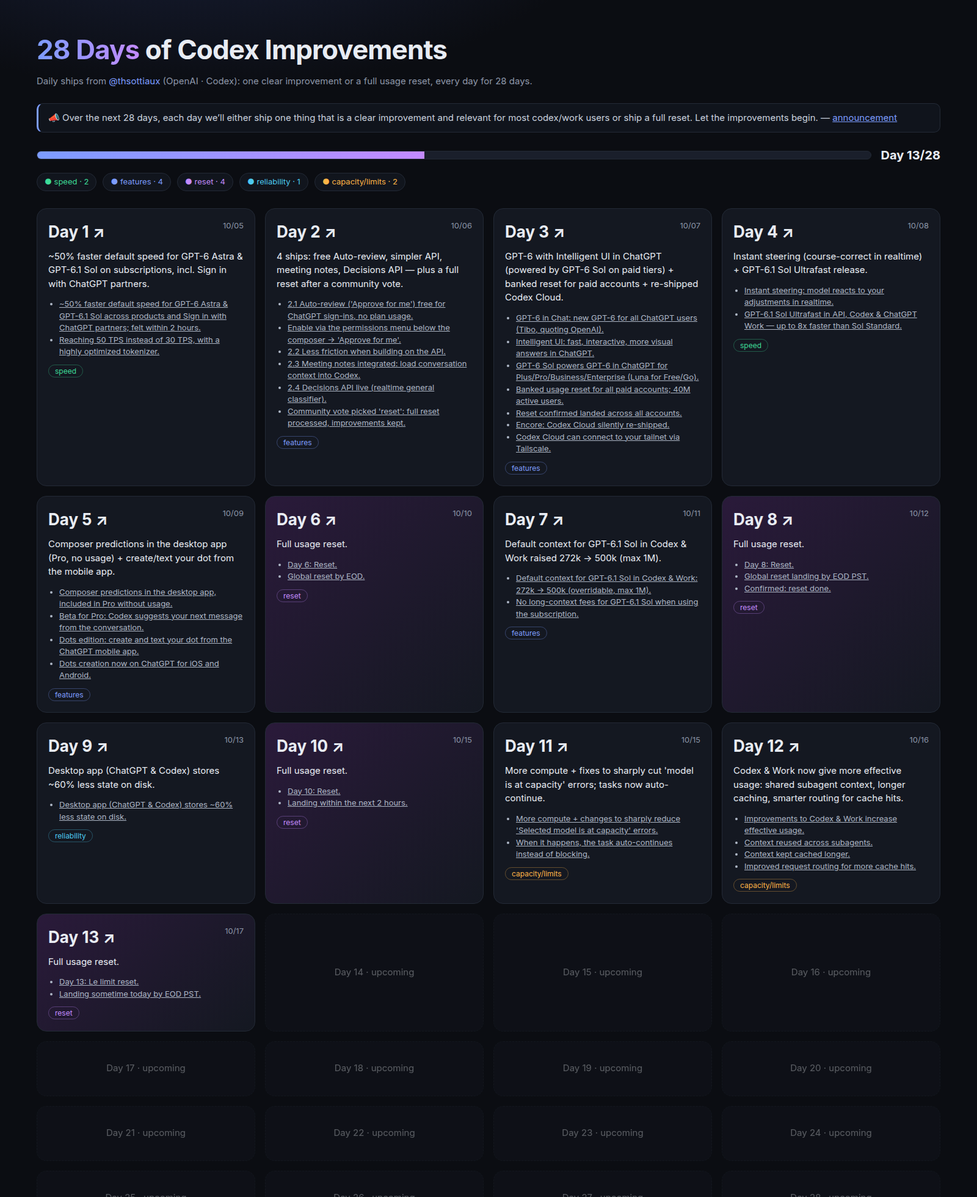
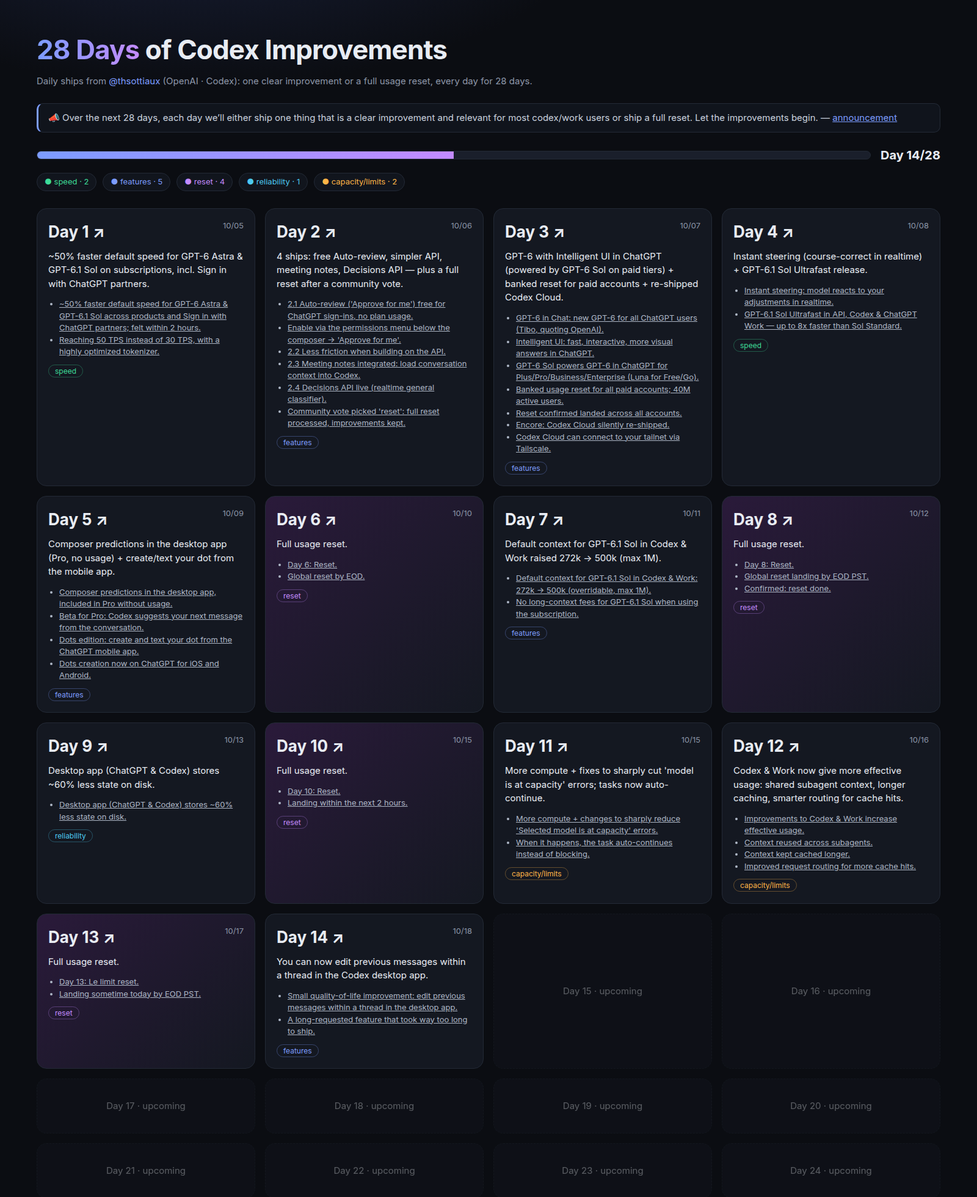
Add Day 14
Record the desktop-app message edit ship and regenerate the tracker page.

diff --git a/index.html b/index.html
@@ -25,7 +25,7 @@ footer{margin-top:28px;color:var(--mut);font-size:13px;display:flex;justify-cont
 <div class="legend" id="legend"></div><div class="grid" id="grid"></div>
 <footer><span>Compiled by <b>@TokenGremlin</b> · Not affiliated with OpenAI · Each card links to the original post</span><span id="upd"></span></footer>
 </div>
-<script id="embedded" type="application/json">{"title": "28 Days of Codex Improvements", "author": "@thsottiaux", "compiled_by": "@TokenGremlin", "timezone": "BRT (UTC-3)", "updated": "2026-10-17 20:15", "total": 28, "announcement": {"date": "2026-10-04 17:33", "url": "https://x.com/i/status/2106845241357824205", "text": "Over the next 28 days, each day we’ll either ship one thing that is a clear improvement and relevant for most codex/work users or ship a full reset. Let the improvements begin."}, "days": [{"day": 1, "date": "2026-10-05 14:20", "ids": ["2107158998495748264"], "category": "speed", "text": "Day 1/\n\nWe have optimized the default speed to be ~50% faster across GPT-6 Astra and GPT-6.1 Sol through the subscription across all our products and partners using Sign in With ChatGPT (including OpenCode, Pi, Amp, Devin, ...).\n\nNo changes needed on your end and this should be felt within the next two hours.", "en": "~50% faster default speed for GPT-6 Astra & GPT-6.1 Sol on subscriptions, incl. Sign in with ChatGPT partners.", "pt": "Velocidade padrão ~50% maior no GPT-6 Astra e GPT-6.1 Sol nas assinaturas, inclusive parceiros (OpenCode, Amp, Devin…).", "url": "https://x.com/i/status/2107158998495748264", "urls": ["https://x.com/i/status/2107158998495748264"], "items": [{"en": "~50% faster default speed for GPT-6 Astra & GPT-6.1 Sol across products and Sign in with ChatGPT partners; felt within 2 hours.", "pt": "Velocidade padrão ~50% maior no GPT-6 Astra e GPT-6.1 Sol em todos os produtos e parceiros; efeito em até 2 horas.", "url": "https://x.com/i/status/2107158998495748264"}, {"en": "Reaching 50 TPS instead of 30 TPS, with a highly optimized tokenizer.", "pt": "50 TPS em vez de 30 TPS, com tokenizer bem otimizado.", "url": "https://x.com/i/status/2107159119107146237"}]}, {"day": 2, "date": "2026-10-06 04:13", "ids": ["2107368734981517634", "2107548725359104441", "2107573405553938664", "2107574912349303197", "2107575657014468879", "2107676072871600470"], "category": "features", "text": "Roundup of Day 2/\n\n2.1/ Approve for me (auto-review) is now included and does not use usage. Can be between 2-10% of plan when used. Also better for you.\n2.2/ Simplified API for builders.\n2.3/ Meeting notes integrated.\n2.4/ Decisions API live for builders. Will use in the app to improve the experience.", "en": "4 ships: free Auto-review, simpler API, meeting notes, Decisions API — plus a full reset after a community vote.", "pt": "4 entregas: Auto-review grátis, API simplificada, notas de reunião, Decisions API — e ainda um reset completo após votação.", "note": "Posted as Day 2.1–2.4 (Oct 6, 04:13–17:53 BRT) plus a roundup; followed by a poll 'Four updates or a reset'.", "url": "https://x.com/i/status/2107368734981517634", "urls": ["https://x.com/i/status/2107368734981517634", "https://x.com/i/status/2107548725359104441", "https://x.com/i/status/2107573405553938664", "https://x.com/i/status/2107574912349303197", "https://x.com/i/status/2107575657014468879", "https://x.com/i/status/2107676072871600470"], "items": [{"en": "2.1 Auto-review ('Approve for me') free for ChatGPT sign-ins, no plan usage.", "pt": "2.1 Auto-review ('Approve for me') grátis pra quem entra com conta ChatGPT, sem gastar uso.", "url": "https://x.com/i/status/2107368734981517634"}, {"en": "Enable via the permissions menu below the composer → 'Approve for me'.", "pt": "Ativa no menu de permissões abaixo do composer → 'Approve for me'.", "url": "https://x.com/i/status/2107504197012988007"}, {"en": "2.2 Less friction when building on the API.", "pt": "2.2 Menos atrito pra construir na API.", "url": "https://x.com/i/status/2107548725359104441"}, {"en": "2.3 Meeting notes integrated: load conversation context into Codex.", "pt": "2.3 Notas de reunião integradas: leva o contexto da conversa pro Codex.", "url": "https://x.com/i/status/2107573405553938664"}, {"en": "2.4 Decisions API live (realtime general classifier).", "pt": "2.4 Decisions API no ar (classificador geral em tempo real).", "url": "https://x.com/i/status/2107574912349303197"}, {"en": "Community vote picked 'reset': full reset processed, improvements kept.", "pt": "A votação escolheu 'reset': reset completo feito, melhorias mantidas.", "url": "https://x.com/i/status/2107676072871600470"}]}, {"day": 3, "date": "2026-10-07 16:19", "ids": ["2107913674593644711", "2108084615349170480", "2107912709715132482", "2107894997538525580", "2107895006350791071"], "category": "features", "text": "Day 3/\n\nThe big one is GPT-6 in Chat, but today is also a little celebration day with a new high of 40M active users across Codex and ChatGPT Work.\n\nLoading a banked reset in everyone's paid accounts. See you again tomorrow!\n\n---\nDay 3 (encore)/\n\nWe silently re-shipped codex cloud. It’s pretty good now", "en": "GPT-6 with Intelligent UI in ChatGPT (powered by GPT-6 Sol on paid tiers) + banked reset for paid accounts + re-shipped Codex Cloud.", "pt": "GPT-6 com Intelligent UI no ChatGPT (GPT-6 Sol nos planos pagos) + reset guardado nas contas pagas + Codex Cloud relançado.", "url": "https://x.com/i/status/2107913674593644711", "urls": ["https://x.com/i/status/2107913674593644711", "https://x.com/i/status/2108084615349170480", "https://x.com/i/status/2107912709715132482", "https://x.com/i/status/2107894997538525580", "https://x.com/i/status/2107895006350791071"], "items": [{"en": "GPT-6 in Chat: new GPT-6 for all ChatGPT users (Tibo, quoting OpenAI).", "pt": "GPT-6 no Chat: novo GPT-6 pra todos no ChatGPT (Tibo citando a OpenAI).", "url": "https://x.com/i/status/2107912709715132482"}, {"en": "Intelligent UI: fast, interactive, more visual answers in ChatGPT.", "pt": "Intelligent UI: respostas rápidas, interativas e mais visuais no ChatGPT.", "url": "https://x.com/OpenAI/status/2107894997538525580"}, {"en": "GPT-6 Sol powers GPT-6 in ChatGPT for Plus/Pro/Business/Enterprise (Luna for Free/Go).", "pt": "GPT-6 Sol roda o GPT-6 no ChatGPT pra Plus/Pro/Business/Enterprise (Luna no Free/Go).", "url": "https://x.com/OpenAI/status/2107895006350791071"}, {"en": "Banked usage reset for all paid accounts; 40M active users.", "pt": "Reset guardado em todas as contas pagas; 40M usuários ativos.", "url": "https://x.com/i/status/2107913674593644711"}, {"en": "Reset confirmed landed across all accounts.", "pt": "Reset confirmado em todas as contas.", "url": "https://x.com/i/status/2108040921044639779"}, {"en": "Encore: Codex Cloud silently re-shipped.", "pt": "Encore: Codex Cloud relançado.", "url": "https://x.com/i/status/2108084615349170480"}, {"en": "Codex Cloud can connect to your tailnet via Tailscale.", "pt": "O Codex Cloud conecta à sua tailnet via Tailscale.", "url": "https://x.com/Tailscale/status/2107836671605551217"}], "note": "Tibo's Day 3 post only says 'The big one is GPT-6 in Chat'. OpenAI calls the feature 'Intelligent UI' (not 'Smart UI'); the GPT-6 Sol detail comes from OpenAI's thread."}, {"day": 4, "date": "2026-10-08 16:15", "ids": ["2108275041276420573"], "category": "speed", "text": "Day 4/\n\nWe have improved steering to be instant, leading to the model now reacting much faster to adjustments you make, allowing you to course-correct direction in realtime and not have the model waste effort.\n\nAlso releasing GPT-6.1 Sol ultrafast. The two work very well together.", "en": "Instant steering (course-correct in realtime) + GPT-6.1 Sol Ultrafast release.", "pt": "Steering instantâneo (corrigir o rumo em tempo real) + lançamento do GPT-6.1 Sol Ultrafast.", "url": "https://x.com/i/status/2108275041276420573", "urls": ["https://x.com/i/status/2108275041276420573"], "items": [{"en": "Instant steering: model reacts to your adjustments in realtime.", "pt": "Steering instantâneo: o modelo reage aos seus ajustes em tempo real.", "url": "https://x.com/i/status/2108275041276420573"}, {"en": "GPT-6.1 Sol Ultrafast in API, Codex & ChatGPT Work — up to 8x faster than Sol Standard.", "pt": "GPT-6.1 Sol Ultrafast na API, Codex e ChatGPT Work — até 8x mais rápido que o Sol Standard.", "url": "https://x.com/OpenAIDevs/status/2108262812489531498"}]}, {"day": 5, "date": "2026-10-09 16:47", "ids": ["2108645667451318747", "2108646052178092403"], "category": "features", "text": "Day 5/\n\nComposer predictions in the desktop app. Often leads to a double take with how on point they are. Included in the Pro plans without consuming usage.\n\n---\nDay 5 (dots edition)/\n\nYou can now create and text your dot entirely from the ChatGPT mobile app. Impressed so many created them via the desktop/web app previously. Time to scale!", "en": "Composer predictions in the desktop app (Pro, no usage) + create/text your dot from the mobile app.", "pt": "Previsões no composer do app desktop (Pro, sem gastar uso) + criar e conversar com seu dot no app mobile.", "url": "https://x.com/i/status/2108645667451318747", "urls": ["https://x.com/i/status/2108645667451318747", "https://x.com/i/status/2108646052178092403"], "items": [{"en": "Composer predictions in the desktop app, included in Pro without usage.", "pt": "Previsões no composer do app desktop, no Pro sem gastar uso.", "url": "https://x.com/i/status/2108645667451318747"}, {"en": "Beta for Pro: Codex suggests your next message from the conversation.", "pt": "Beta no Pro: o Codex sugere sua próxima mensagem com base na conversa.", "url": "https://x.com/OpenAIDevs/status/2108624138369929725"}, {"en": "Dots edition: create and text your dot from the ChatGPT mobile app.", "pt": "Edição dots: crie e converse com seu dot no app mobile do ChatGPT.", "url": "https://x.com/i/status/2108646052178092403"}, {"en": "Dots creation now on ChatGPT for iOS and Android.", "pt": "Criação de dots agora no ChatGPT pra iOS e Android.", "url": "https://x.com/ChatGPT/status/2108636745915052037"}]}, {"day": 6, "date": "2026-10-10 19:15", "ids": ["2109045220411351517"], "category": "reset", "text": "Day 6/ Reset", "en": "Full usage reset.", "pt": "Reset completo de uso.", "url": "https://x.com/i/status/2109045220411351517", "urls": ["https://x.com/i/status/2109045220411351517"], "items": [{"en": "Day 6: Reset.", "pt": "Day 6: Reset.", "url": "https://x.com/i/status/2109045220411351517"}, {"en": "Global reset by EOD.", "pt": "Reset global até o fim do dia.", "url": "https://x.com/i/status/2109045392684032299"}]}, {"day": 7, "date": "2026-10-11 20:45", "ids": ["2109430343346581527"], "category": "features", "text": "Day 7/\n\nWe have increased default context length for GPT-6.1 Sol to 500k when used through Codex & Work, up from 272k or an ~ 80% increase.\n\nWe will go higher in the future, but it helps reduce occurrence of compactions and with tasks that require keeping a lot of context and nuance over periods of time. It was carefully tested and is the new sweet spot for most of our users. You can still override it if you want to be higher our lower, with maximum context length of GPT-6.1 Sol of 1M.", "en": "Default context for GPT-6.1 Sol in Codex & Work raised 272k → 500k (max 1M).", "pt": "Contexto padrão do GPT-6.1 Sol no Codex e Work subiu de 272k pra 500k (máx. 1M).", "url": "https://x.com/i/status/2109430343346581527", "urls": ["https://x.com/i/status/2109430343346581527"], "items": [{"en": "Default context for GPT-6.1 Sol in Codex & Work: 272k → 500k (overridable, max 1M).", "pt": "Contexto padrão do GPT-6.1 Sol no Codex e Work: 272k → 500k (ajustável, máx. 1M).", "url": "https://x.com/i/status/2109430343346581527"}, {"en": "No long-context fees for GPT-6.1 Sol when using the subscription.", "pt": "Sem taxa de contexto longo no GPT-6.1 Sol usando a assinatura.", "url": "https://x.com/i/status/2109430894604026039"}]}, {"day": 8, "date": "2026-10-12 22:03", "ids": ["2109812216212099456"], "category": "reset", "text": "Day 8/ Reset", "en": "Full usage reset.", "pt": "Reset completo de uso.", "url": "https://x.com/i/status/2109812216212099456", "urls": ["https://x.com/i/status/2109812216212099456"], "items": [{"en": "Day 8: Reset.", "pt": "Day 8: Reset.", "url": "https://x.com/i/status/2109812216212099456"}, {"en": "Global reset landing by EOD PST.", "pt": "Reset global até o fim do dia (PST).", "url": "https://x.com/i/status/2109812360596865224"}, {"en": "Confirmed: reset done.", "pt": "Confirmado: reset concluído.", "url": "https://x.com/i/status/2109873287853707513"}]}, {"day": 9, "date": "2026-10-13 20:32", "ids": ["2110151780478927344"], "category": "reliability", "text": "Day 9/\n\nWe've rolled out optimizations to how we store state on disk for the chatgpt & codex desktop app that should reduce the amount stored on disk by 60%. Small ship but we've heard enough feedback about power users running out of disk space.", "en": "Desktop app (ChatGPT & Codex) stores ~60% less state on disk.", "pt": "App desktop (ChatGPT e Codex) passa a ocupar ~60% menos espaço em disco.", "note": "Same text was first posted 20s earlier mislabeled 'Day 8/' (2110151690641154499).", "url": "https://x.com/i/status/2110151780478927344", "urls": ["https://x.com/i/status/2110151780478927344"], "items": [{"en": "Desktop app (ChatGPT & Codex) stores ~60% less state on disk.", "pt": "App desktop (ChatGPT e Codex) usa ~60% menos disco.", "url": "https://x.com/i/status/2110151780478927344"}]}, {"day": 10, "date": "2026-10-15 01:55", "ids": ["2110595484180214059"], "category": "reset", "text": "The reports of my reset button being lost are greatly exaggerated\n\nDay 10/ Reset", "en": "Full usage reset.", "pt": "Reset completo de uso.", "url": "https://x.com/i/status/2110595484180214059", "urls": ["https://x.com/i/status/2110595484180214059"], "items": [{"en": "Day 10: Reset.", "pt": "Day 10: Reset.", "url": "https://x.com/i/status/2110595484180214059"}, {"en": "Landing within the next 2 hours.", "pt": "Chega nas próximas 2 horas.", "url": "https://x.com/i/status/2110595554036400151"}]}, {"day": 11, "date": "2026-10-15 12:11", "ids": ["2110750421367287996"], "category": "capacity/limits", "text": "Day 11/\n\nWe've landed a series of changes and more compute to very significantly decrease the occurrence of the disruptive \"Selected model is at capacity. Please try a different model\". When it does happen, it should also eventually just continue by itself and not just block on it.\n\nLet us know if you still see it out there in the wild and we'll take a look.", "en": "More compute + fixes to sharply cut 'model is at capacity' errors; tasks now auto-continue.", "pt": "Mais compute e ajustes pra reduzir muito o erro “model is at capacity”; agora a tarefa continua sozinha.", "url": "https://x.com/i/status/2110750421367287996", "urls": ["https://x.com/i/status/2110750421367287996"], "items": [{"en": "More compute + changes to sharply reduce 'Selected model is at capacity' errors.", "pt": "Mais compute e ajustes pra reduzir muito o erro 'Selected model is at capacity'.", "url": "https://x.com/i/status/2110750421367287996"}, {"en": "When it happens, the task auto-continues instead of blocking.", "pt": "Quando acontecer, a tarefa continua sozinha em vez de travar.", "url": "https://x.com/i/status/2110750421367287996"}]}, {"day": 12, "date": "2026-10-16 20:55", "ids": ["2111244596131111253"], "category": "capacity/limits", "text": "Day 12/\n\nWe’ve made improvements to Codex & Work that increase the effective usage you get. We achieved this by reusing context across subagents, keeping context cached longer, and improved request routing that allows us to increase cache hits.", "en": "Codex & Work now give more effective usage: shared subagent context, longer caching, smarter routing for cache hits.", "pt": "Codex e Work agora rendem mais uso efetivo: contexto reaproveitado entre subagentes, cache mais longo e roteamento melhor pra mais cache hits.", "url": "https://x.com/i/status/2111244596131111253", "urls": ["https://x.com/i/status/2111244596131111253"], "items": [{"en": "Improvements to Codex & Work increase effective usage.", "pt": "Melhorias no Codex e no Work aumentam o uso efetivo.", "url": "https://x.com/i/status/2111244596131111253"}, {"en": "Context reused across subagents.", "pt": "Contexto reaproveitado entre subagentes.", "url": "https://x.com/i/status/2111244596131111253"}, {"en": "Context kept cached longer.", "pt": "Contexto fica em cache por mais tempo.", "url": "https://x.com/i/status/2111244596131111253"}, {"en": "Improved request routing for more cache hits.", "pt": "Roteamento de requisições melhorado pra aumentar os cache hits.", "url": "https://x.com/i/status/2111244596131111253"}]}, {"day": 13, "date": "2026-10-17 13:20", "ids": ["2111492673890824348"], "category": "reset", "text": "Day 13/ Le limit reset", "en": "Full usage reset.", "pt": "Reset completo de uso.", "url": "https://x.com/i/status/2111492673890824348", "urls": ["https://x.com/i/status/2111492673890824348"], "items": [{"en": "Day 13: Le limit reset.", "pt": "Day 13: Le limit reset.", "url": "https://x.com/i/status/2111492673890824348"}, {"en": "Landing sometime today by EOD PST.", "pt": "Chega hoje, até o fim do dia (PST).", "url": "https://x.com/i/status/2111492738025959922"}]}]}</script>
+<script id="embedded" type="application/json">{"title": "28 Days of Codex Improvements", "author": "@thsottiaux", "compiled_by": "@TokenGremlin", "timezone": "BRT (UTC-3)", "updated": "2026-10-18 23:55", "total": 28, "announcement": {"date": "2026-10-04 17:33", "url": "https://x.com/i/status/2106845241357824205", "text": "Over the next 28 days, each day we’ll either ship one thing that is a clear improvement and relevant for most codex/work users or ship a full reset. Let the improvements begin."}, "days": [{"day": 1, "date": "2026-10-05 14:20", "ids": ["2107158998495748264"], "category": "speed", "text": "Day 1/\n\nWe have optimized the default speed to be ~50% faster across GPT-6 Astra and GPT-6.1 Sol through the subscription across all our products and partners using Sign in With ChatGPT (including OpenCode, Pi, Amp, Devin, ...).\n\nNo changes needed on your end and this should be felt within the next two hours.", "en": "~50% faster default speed for GPT-6 Astra & GPT-6.1 Sol on subscriptions, incl. Sign in with ChatGPT partners.", "pt": "Velocidade padrão ~50% maior no GPT-6 Astra e GPT-6.1 Sol nas assinaturas, inclusive parceiros (OpenCode, Amp, Devin…).", "url": "https://x.com/i/status/2107158998495748264", "urls": ["https://x.com/i/status/2107158998495748264"], "items": [{"en": "~50% faster default speed for GPT-6 Astra & GPT-6.1 Sol across products and Sign in with ChatGPT partners; felt within 2 hours.", "pt": "Velocidade padrão ~50% maior no GPT-6 Astra e GPT-6.1 Sol em todos os produtos e parceiros; efeito em até 2 horas.", "url": "https://x.com/i/status/2107158998495748264"}, {"en": "Reaching 50 TPS instead of 30 TPS, with a highly optimized tokenizer.", "pt": "50 TPS em vez de 30 TPS, com tokenizer bem otimizado.", "url": "https://x.com/i/status/2107159119107146237"}]}, {"day": 2, "date": "2026-10-06 04:13", "ids": ["2107368734981517634", "2107548725359104441", "2107573405553938664", "2107574912349303197", "2107575657014468879", "2107676072871600470"], "category": "features", "text": "Roundup of Day 2/\n\n2.1/ Approve for me (auto-review) is now included and does not use usage. Can be between 2-10% of plan when used. Also better for you.\n2.2/ Simplified API for builders.\n2.3/ Meeting notes integrated.\n2.4/ Decisions API live for builders. Will use in the app to improve the experience.", "en": "4 ships: free Auto-review, simpler API, meeting notes, Decisions API — plus a full reset after a community vote.", "pt": "4 entregas: Auto-review grátis, API simplificada, notas de reunião, Decisions API — e ainda um reset completo após votação.", "note": "Posted as Day 2.1–2.4 (Oct 6, 04:13–17:53 BRT) plus a roundup; followed by a poll 'Four updates or a reset'.", "url": "https://x.com/i/status/2107368734981517634", "urls": ["https://x.com/i/status/2107368734981517634", "https://x.com/i/status/2107548725359104441", "https://x.com/i/status/2107573405553938664", "https://x.com/i/status/2107574912349303197", "https://x.com/i/status/2107575657014468879", "https://x.com/i/status/2107676072871600470"], "items": [{"en": "2.1 Auto-review ('Approve for me') free for ChatGPT sign-ins, no plan usage.", "pt": "2.1 Auto-review ('Approve for me') grátis pra quem entra com conta ChatGPT, sem gastar uso.", "url": "https://x.com/i/status/2107368734981517634"}, {"en": "Enable via the permissions menu below the composer → 'Approve for me'.", "pt": "Ativa no menu de permissões abaixo do composer → 'Approve for me'.", "url": "https://x.com/i/status/2107504197012988007"}, {"en": "2.2 Less friction when building on the API.", "pt": "2.2 Menos atrito pra construir na API.", "url": "https://x.com/i/status/2107548725359104441"}, {"en": "2.3 Meeting notes integrated: load conversation context into Codex.", "pt": "2.3 Notas de reunião integradas: leva o contexto da conversa pro Codex.", "url": "https://x.com/i/status/2107573405553938664"}, {"en": "2.4 Decisions API live (realtime general classifier).", "pt": "2.4 Decisions API no ar (classificador geral em tempo real).", "url": "https://x.com/i/status/2107574912349303197"}, {"en": "Community vote picked 'reset': full reset processed, improvements kept.", "pt": "A votação escolheu 'reset': reset completo feito, melhorias mantidas.", "url": "https://x.com/i/status/2107676072871600470"}]}, {"day": 3, "date": "2026-10-07 16:19", "ids": ["2107913674593644711", "2108084615349170480", "2107912709715132482", "2107894997538525580", "2107895006350791071"], "category": "features", "text": "Day 3/\n\nThe big one is GPT-6 in Chat, but today is also a little celebration day with a new high of 40M active users across Codex and ChatGPT Work.\n\nLoading a banked reset in everyone's paid accounts. See you again tomorrow!\n\n---\nDay 3 (encore)/\n\nWe silently re-shipped codex cloud. It’s pretty good now", "en": "GPT-6 with Intelligent UI in ChatGPT (powered by GPT-6 Sol on paid tiers) + banked reset for paid accounts + re-shipped Codex Cloud.", "pt": "GPT-6 com Intelligent UI no ChatGPT (GPT-6 Sol nos planos pagos) + reset guardado nas contas pagas + Codex Cloud relançado.", "url": "https://x.com/i/status/2107913674593644711", "urls": ["https://x.com/i/status/2107913674593644711", "https://x.com/i/status/2108084615349170480", "https://x.com/i/status/2107912709715132482", "https://x.com/i/status/2107894997538525580", "https://x.com/i/status/2107895006350791071"], "items": [{"en": "GPT-6 in Chat: new GPT-6 for all ChatGPT users (Tibo, quoting OpenAI).", "pt": "GPT-6 no Chat: novo GPT-6 pra todos no ChatGPT (Tibo citando a OpenAI).", "url": "https://x.com/i/status/2107912709715132482"}, {"en": "Intelligent UI: fast, interactive, more visual answers in ChatGPT.", "pt": "Intelligent UI: respostas rápidas, interativas e mais visuais no ChatGPT.", "url": "https://x.com/OpenAI/status/2107894997538525580"}, {"en": "GPT-6 Sol powers GPT-6 in ChatGPT for Plus/Pro/Business/Enterprise (Luna for Free/Go).", "pt": "GPT-6 Sol roda o GPT-6 no ChatGPT pra Plus/Pro/Business/Enterprise (Luna no Free/Go).", "url": "https://x.com/OpenAI/status/2107895006350791071"}, {"en": "Banked usage reset for all paid accounts; 40M active users.", "pt": "Reset guardado em todas as contas pagas; 40M usuários ativos.", "url": "https://x.com/i/status/2107913674593644711"}, {"en": "Reset confirmed landed across all accounts.", "pt": "Reset confirmado em todas as contas.", "url": "https://x.com/i/status/2108040921044639779"}, {"en": "Encore: Codex Cloud silently re-shipped.", "pt": "Encore: Codex Cloud relançado.", "url": "https://x.com/i/status/2108084615349170480"}, {"en": "Codex Cloud can connect to your tailnet via Tailscale.", "pt": "O Codex Cloud conecta à sua tailnet via Tailscale.", "url": "https://x.com/Tailscale/status/2107836671605551217"}], "note": "Tibo's Day 3 post only says 'The big one is GPT-6 in Chat'. OpenAI calls the feature 'Intelligent UI' (not 'Smart UI'); the GPT-6 Sol detail comes from OpenAI's thread."}, {"day": 4, "date": "2026-10-08 16:15", "ids": ["2108275041276420573"], "category": "speed", "text": "Day 4/\n\nWe have improved steering to be instant, leading to the model now reacting much faster to adjustments you make, allowing you to course-correct direction in realtime and not have the model waste effort.\n\nAlso releasing GPT-6.1 Sol ultrafast. The two work very well together.", "en": "Instant steering (course-correct in realtime) + GPT-6.1 Sol Ultrafast release.", "pt": "Steering instantâneo (corrigir o rumo em tempo real) + lançamento do GPT-6.1 Sol Ultrafast.", "url": "https://x.com/i/status/2108275041276420573", "urls": ["https://x.com/i/status/2108275041276420573"], "items": [{"en": "Instant steering: model reacts to your adjustments in realtime.", "pt": "Steering instantâneo: o modelo reage aos seus ajustes em tempo real.", "url": "https://x.com/i/status/2108275041276420573"}, {"en": "GPT-6.1 Sol Ultrafast in API, Codex & ChatGPT Work — up to 8x faster than Sol Standard.", "pt": "GPT-6.1 Sol Ultrafast na API, Codex e ChatGPT Work — até 8x mais rápido que o Sol Standard.", "url": "https://x.com/OpenAIDevs/status/2108262812489531498"}]}, {"day": 5, "date": "2026-10-09 16:47", "ids": ["2108645667451318747", "2108646052178092403"], "category": "features", "text": "Day 5/\n\nComposer predictions in the desktop app. Often leads to a double take with how on point they are. Included in the Pro plans without consuming usage.\n\n---\nDay 5 (dots edition)/\n\nYou can now create and text your dot entirely from the ChatGPT mobile app. Impressed so many created them via the desktop/web app previously. Time to scale!", "en": "Composer predictions in the desktop app (Pro, no usage) + create/text your dot from the mobile app.", "pt": "Previsões no composer do app desktop (Pro, sem gastar uso) + criar e conversar com seu dot no app mobile.", "url": "https://x.com/i/status/2108645667451318747", "urls": ["https://x.com/i/status/2108645667451318747", "https://x.com/i/status/2108646052178092403"], "items": [{"en": "Composer predictions in the desktop app, included in Pro without usage.", "pt": "Previsões no composer do app desktop, no Pro sem gastar uso.", "url": "https://x.com/i/status/2108645667451318747"}, {"en": "Beta for Pro: Codex suggests your next message from the conversation.", "pt": "Beta no Pro: o Codex sugere sua próxima mensagem com base na conversa.", "url": "https://x.com/OpenAIDevs/status/2108624138369929725"}, {"en": "Dots edition: create and text your dot from the ChatGPT mobile app.", "pt": "Edição dots: crie e converse com seu dot no app mobile do ChatGPT.", "url": "https://x.com/i/status/2108646052178092403"}, {"en": "Dots creation now on ChatGPT for iOS and Android.", "pt": "Criação de dots agora no ChatGPT pra iOS e Android.", "url": "https://x.com/ChatGPT/status/2108636745915052037"}]}, {"day": 6, "date": "2026-10-10 19:15", "ids": ["2109045220411351517"], "category": "reset", "text": "Day 6/ Reset", "en": "Full usage reset.", "pt": "Reset completo de uso.", "url": "https://x.com/i/status/2109045220411351517", "urls": ["https://x.com/i/status/2109045220411351517"], "items": [{"en": "Day 6: Reset.", "pt": "Day 6: Reset.", "url": "https://x.com/i/status/2109045220411351517"}, {"en": "Global reset by EOD.", "pt": "Reset global até o fim do dia.", "url": "https://x.com/i/status/2109045392684032299"}]}, {"day": 7, "date": "2026-10-11 20:45", "ids": ["2109430343346581527"], "category": "features", "text": "Day 7/\n\nWe have increased default context length for GPT-6.1 Sol to 500k when used through Codex & Work, up from 272k or an ~ 80% increase.\n\nWe will go higher in the future, but it helps reduce occurrence of compactions and with tasks that require keeping a lot of context and nuance over periods of time. It was carefully tested and is the new sweet spot for most of our users. You can still override it if you want to be higher our lower, with maximum context length of GPT-6.1 Sol of 1M.", "en": "Default context for GPT-6.1 Sol in Codex & Work raised 272k → 500k (max 1M).", "pt": "Contexto padrão do GPT-6.1 Sol no Codex e Work subiu de 272k pra 500k (máx. 1M).", "url": "https://x.com/i/status/2109430343346581527", "urls": ["https://x.com/i/status/2109430343346581527"], "items": [{"en": "Default context for GPT-6.1 Sol in Codex & Work: 272k → 500k (overridable, max 1M).", "pt": "Contexto padrão do GPT-6.1 Sol no Codex e Work: 272k → 500k (ajustável, máx. 1M).", "url": "https://x.com/i/status/2109430343346581527"}, {"en": "No long-context fees for GPT-6.1 Sol when using the subscription.", "pt": "Sem taxa de contexto longo no GPT-6.1 Sol usando a assinatura.", "url": "https://x.com/i/status/2109430894604026039"}]}, {"day": 8, "date": "2026-10-12 22:03", "ids": ["2109812216212099456"], "category": "reset", "text": "Day 8/ Reset", "en": "Full usage reset.", "pt": "Reset completo de uso.", "url": "https://x.com/i/status/2109812216212099456", "urls": ["https://x.com/i/status/2109812216212099456"], "items": [{"en": "Day 8: Reset.", "pt": "Day 8: Reset.", "url": "https://x.com/i/status/2109812216212099456"}, {"en": "Global reset landing by EOD PST.", "pt": "Reset global até o fim do dia (PST).", "url": "https://x.com/i/status/2109812360596865224"}, {"en": "Confirmed: reset done.", "pt": "Confirmado: reset concluído.", "url": "https://x.com/i/status/2109873287853707513"}]}, {"day": 9, "date": "2026-10-13 20:32", "ids": ["2110151780478927344"], "category": "reliability", "text": "Day 9/\n\nWe've rolled out optimizations to how we store state on disk for the chatgpt & codex desktop app that should reduce the amount stored on disk by 60%. Small ship but we've heard enough feedback about power users running out of disk space.", "en": "Desktop app (ChatGPT & Codex) stores ~60% less state on disk.", "pt": "App desktop (ChatGPT e Codex) passa a ocupar ~60% menos espaço em disco.", "note": "Same text was first posted 20s earlier mislabeled 'Day 8/' (2110151690641154499).", "url": "https://x.com/i/status/2110151780478927344", "urls": ["https://x.com/i/status/2110151780478927344"], "items": [{"en": "Desktop app (ChatGPT & Codex) stores ~60% less state on disk.", "pt": "App desktop (ChatGPT e Codex) usa ~60% menos disco.", "url": "https://x.com/i/status/2110151780478927344"}]}, {"day": 10, "date": "2026-10-15 01:55", "ids": ["2110595484180214059"], "category": "reset", "text": "The reports of my reset button being lost are greatly exaggerated\n\nDay 10/ Reset", "en": "Full usage reset.", "pt": "Reset completo de uso.", "url": "https://x.com/i/status/2110595484180214059", "urls": ["https://x.com/i/status/2110595484180214059"], "items": [{"en": "Day 10: Reset.", "pt": "Day 10: Reset.", "url": "https://x.com/i/status/2110595484180214059"}, {"en": "Landing within the next 2 hours.", "pt": "Chega nas próximas 2 horas.", "url": "https://x.com/i/status/2110595554036400151"}]}, {"day": 11, "date": "2026-10-15 12:11", "ids": ["2110750421367287996"], "category": "capacity/limits", "text": "Day 11/\n\nWe've landed a series of changes and more compute to very significantly decrease the occurrence of the disruptive \"Selected model is at capacity. Please try a different model\". When it does happen, it should also eventually just continue by itself and not just block on it.\n\nLet us know if you still see it out there in the wild and we'll take a look.", "en": "More compute + fixes to sharply cut 'model is at capacity' errors; tasks now auto-continue.", "pt": "Mais compute e ajustes pra reduzir muito o erro “model is at capacity”; agora a tarefa continua sozinha.", "url": "https://x.com/i/status/2110750421367287996", "urls": ["https://x.com/i/status/2110750421367287996"], "items": [{"en": "More compute + changes to sharply reduce 'Selected model is at capacity' errors.", "pt": "Mais compute e ajustes pra reduzir muito o erro 'Selected model is at capacity'.", "url": "https://x.com/i/status/2110750421367287996"}, {"en": "When it happens, the task auto-continues instead of blocking.", "pt": "Quando acontecer, a tarefa continua sozinha em vez de travar.", "url": "https://x.com/i/status/2110750421367287996"}]}, {"day": 12, "date": "2026-10-16 20:55", "ids": ["2111244596131111253"], "category": "capacity/limits", "text": "Day 12/\n\nWe’ve made improvements to Codex & Work that increase the effective usage you get. We achieved this by reusing context across subagents, keeping context cached longer, and improved request routing that allows us to increase cache hits.", "en": "Codex & Work now give more effective usage: shared subagent context, longer caching, smarter routing for cache hits.", "pt": "Codex e Work agora rendem mais uso efetivo: contexto reaproveitado entre subagentes, cache mais longo e roteamento melhor pra mais cache hits.", "url": "https://x.com/i/status/2111244596131111253", "urls": ["https://x.com/i/status/2111244596131111253"], "items": [{"en": "Improvements to Codex & Work increase effective usage.", "pt": "Melhorias no Codex e no Work aumentam o uso efetivo.", "url": "https://x.com/i/status/2111244596131111253"}, {"en": "Context reused across subagents.", "pt": "Contexto reaproveitado entre subagentes.", "url": "https://x.com/i/status/2111244596131111253"}, {"en": "Context kept cached longer.", "pt": "Contexto fica em cache por mais tempo.", "url": "https://x.com/i/status/2111244596131111253"}, {"en": "Improved request routing for more cache hits.", "pt": "Roteamento de requisições melhorado pra aumentar os cache hits.", "url": "https://x.com/i/status/2111244596131111253"}]}, {"day": 13, "date": "2026-10-17 13:20", "ids": ["2111492673890824348"], "category": "reset", "text": "Day 13/ Le limit reset", "en": "Full usage reset.", "pt": "Reset completo de uso.", "url": "https://x.com/i/status/2111492673890824348", "urls": ["https://x.com/i/status/2111492673890824348"], "items": [{"en": "Day 13: Le limit reset.", "pt": "Day 13: Le limit reset.", "url": "https://x.com/i/status/2111492673890824348"}, {"en": "Landing sometime today by EOD PST.", "pt": "Chega hoje, até o fim do dia (PST).", "url": "https://x.com/i/status/2111492738025959922"}]}, {"day": 14, "date": "2026-10-18 22:18", "ids": ["2111990254408434095"], "category": "features", "text": "Day 14/\n\nSmall quality of life improvement. You can now edit previous messages within a thread in the desktop app. Long time requested, and took way too long to get that one out.", "en": "You can now edit previous messages within a thread in the Codex desktop app.", "pt": "Agora dá pra editar mensagens anteriores dentro de uma thread no app desktop.", "url": "https://x.com/i/status/2111990254408434095", "urls": ["https://x.com/i/status/2111990254408434095"], "items": [{"en": "Small quality-of-life improvement: edit previous messages within a thread in the desktop app.", "pt": "Pequena melhoria de qualidade de vida: editar mensagens anteriores dentro de uma thread no app desktop.", "url": "https://x.com/i/status/2111990254408434095"}, {"en": "A long-requested feature that took way too long to ship.", "pt": "Recurso pedido há muito tempo, que demorou demais pra sair.", "url": "https://x.com/i/status/2111990254408434095"}]}]}</script>
 <script>
 const C={"speed":"#3ddc97","features":"#7c9cff","capacity/limits":"#ffb547","reliability":"#4cc9f0","reset":"#c38bff","pricing":"#ff6b8a"};
 const esc=s=>s.replace(/[&<>"]/g,c=>({"&":"&amp;","<":"&lt;",">":"&gt;",'"':"&quot;"}[c]));
